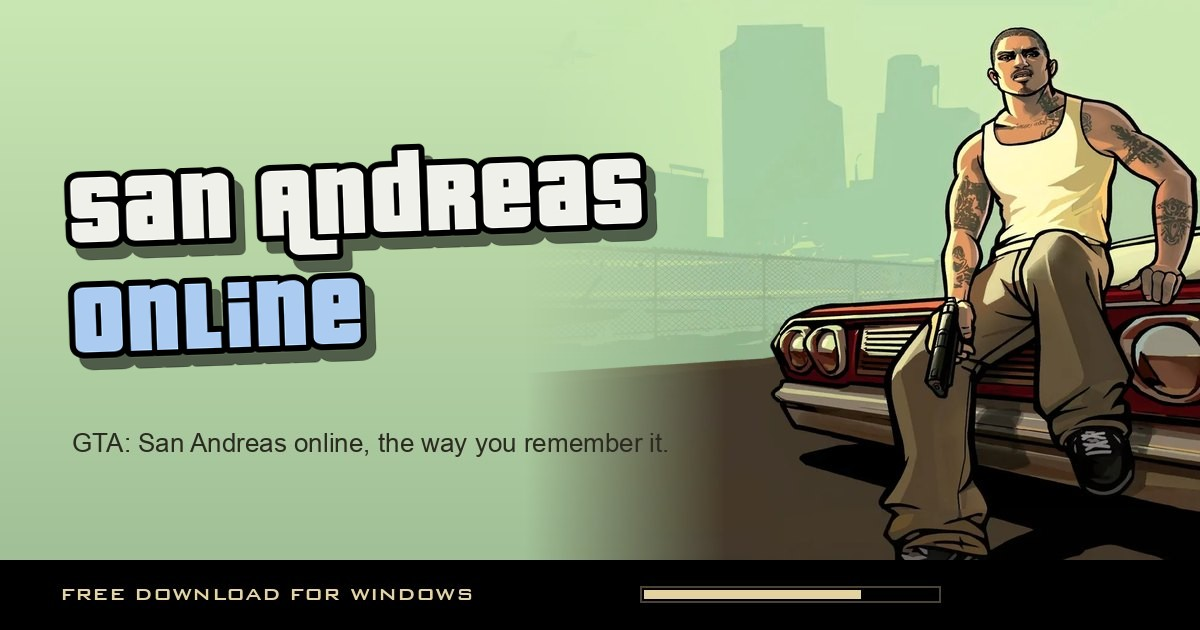
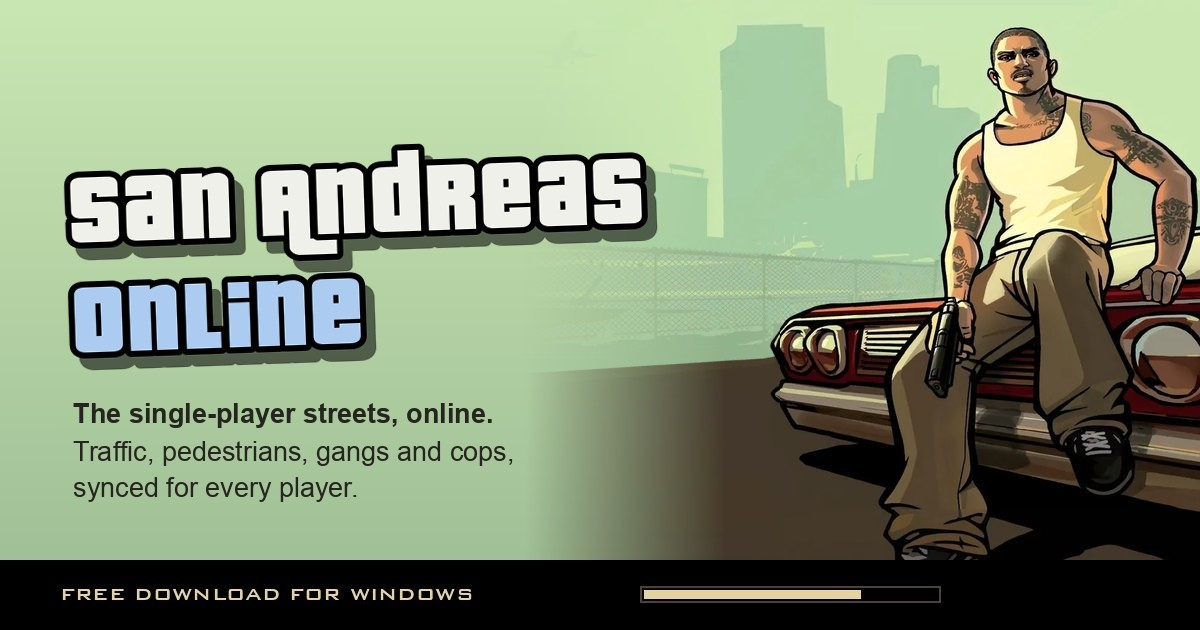
Sell the single-player traffic on sanandreasonline.com
Request: the site undersold the project. The Discord preview only said
"longer draw distance and PS2 colours", nothing about the thing no other
San Andreas multiplayer has: GTA's own traffic and pedestrians, synced
for every player.

SEO and link previews:
- Title: "San Andreas Online: GTA San Andreas Multiplayer with Traffic & NPCs".
- Description, og: and twitter: tags lead with the traffic, pedestrians,
  gangs and cops, then draw distance (5,000 units), lit skyline, PS2
  colours and 20 x 20 km maps. og:image:alt and locales added.
- JSON-LD: WebSite (site name + SA:O), VideoGame/SoftwareApplication
  (free, Windows, multiplayer, GPL, download URL) and FAQPage matching the
  visible FAQ.
- og.jpg tagline replaced ("The single-player streets, online. Traffic,
  pedestrians, gangs and cops, synced for every player."), served as
  og.jpg?v=2 so Discord refetches it.

Page:
- One-sentence pitch under the hero logo (light backing at tablet widths
  where the art runs behind it).
- New "The streets are full again" section first in the page and nav:
  GTA's drivers, gangs on story turf, regional cops, population by area,
  time, weekday and rain, carjack reactions, owner handoff, passenger
  seats. Every claim is taken from the native-ped-traffic and
  native-vehicle-traffic READMEs; the freeroam server runs both resources.
- Feature 1 now sells bigger worlds (20 x 20 km); the FAQ "why GitHub"
  entry becomes "Does it have traffic and pedestrians?".
[…]

Changed region(s): [[0.0617, 0.6333, 0.555, 0.8143]]

diff --git a/Tools/neon-website/index.html b/Tools/neon-website/index.html
@@ -3,8 +3,8 @@
 <head>
   <meta charset="utf-8">
   <meta name="viewport" content="width=device-width, initial-scale=1">
-  <title>San Andreas Online — GTA: San Andreas Multiplayer</title>
-  <meta name="description" content="Play GTA: San Andreas online for free. San Andreas Online is a multiplayer client built on Multi Theft Auto, with longer draw distance, city lights at night, PS2 colours and GTA's own traffic and pedestrians. Windows.">
+  <title>San Andreas Online: GTA San Andreas Multiplayer with Traffic &amp; NPCs</title>
+  <meta name="description" content="Free GTA: San Andreas multiplayer with the single-player traffic, pedestrians, gangs and cops back, synced for every player. Longer draw distance, PS2 colours and bigger maps.">
   <meta name="theme-color" content="#0b0a09">
   <link rel="canonical" href="https://sanandreasonline.com/">
   <link rel="icon" type="image/png" href="/favicon.png">
@@ -12,13 +12,120 @@
 
   <meta property="og:type" content="website">
   <meta property="og:site_name" content="San Andreas Online">
-  <meta property="og:title" content="San Andreas Online — GTA: San Andreas Multiplayer">
-  <meta property="og:description" content="GTA: San Andreas multiplayer with longer draw distance and PS2 colours. Free for Windows.">
+  <meta property="og:title" content="San Andreas Online: GTA San Andreas multiplayer with the single-player streets back">
+  <meta property="og:description" content="SA-MP and MTA leave the city empty. San Andreas Online brings back GTA's own traffic, pedestrians, gangs and cops, synced for every player. Plus draw distance up to 5,000 units, the whole skyline lit at night, PS2 colours and maps up to 20 × 20 km. Free for Windows.">
   <meta property="og:url" content="https://sanandreasonline.com/">
-  <meta property="og:image" content="https://sanandreasonline.com/og.jpg">
+  <meta property="og:image" content="https://sanandreasonline.com/og.jpg?v=2">
   <meta property="og:image:width" content="1200">
   <meta property="og:image:height" content="630">
+  <meta property="og:image:alt" content="San Andreas Online: GTA San Andreas multiplayer with the single-player traffic and pedestrians">
+  <meta property="og:locale" content="en_US">
+  <meta property="og:locale:alternate" content="fr_FR">
   <meta name="twitter:card" content="summary_large_image">
+  <meta name="twitter:title" content="San Andreas Online: GTA San Andreas multiplayer with the single-player streets back">
+  <meta name="twitter:description" content="SA-MP and MTA leave the city empty. San Andreas Online brings back GTA's own traffic, pedestrians, gangs and cops, synced for every player. Plus draw distance up to 5,000 units, the whole skyline lit at night, PS2 colours and maps up to 20 × 20 km. Free for Windows.">
+  <meta name="twitter:image" content="https://sanandreasonline.com/og.jpg?v=2">
+  <script type="application/ld+json">
+[
+ {
+  "@context": "https://schema.org",
+  "@type": "WebSite",
+  "name": "San Andreas Online",
+  "alternateName": "SA:O",
+  "url": "https://sanandreasonline.com/"
+ },
+ {
+  "@context": "https://schema.org",
+  "@type": [
+   "VideoGame",
+   "SoftwareApplication"
+  ],
+  "name": "San Andreas Online",
+  "alternateName": [
+   "SA:O",
+   "San Andreas Online multiplayer"
+  ],
+  "description": "Free GTA: San Andreas multiplayer with the single-player traffic, pedestrians, gangs and cops back, synced for every player. Longer draw distance, PS2 colours and bigger maps.",
+  "url": "https://sanandreasonline.com/",
+  "image": "https://sanandreasonline.com/og.jpg?v=2",
+  "applicationCategory": "GameApplication",
+  "operatingSystem": "Windows",
+  "gamePlatform": "PC",
+  "playMode": "MultiPlayer",
+  "genre": [
+   "Open world",
+   "Multiplayer",
+   "Action"
+  ],
+  "downloadUrl": "https://sanandreasonline.com/download",
+  "isAccessibleForFree": true,
+  "license": "https://www.gnu.org/licenses/gpl-3.0.html",
+  "offers": {
+   "@type": "Offer",
+   "price": "0",
+   "priceCurrency": "USD"
+  },
+  "sameAs": [
+   "https://github.com/Dryxio/san-andreas-online",
+   "https://discord.com/invite/mgFRd2AzF8"
+  ]
+ },
+ {
+  "@context": "https://schema.org",
+  "@type": "FAQPage",
+  "mainEntity": [
+   {
+    "@type": "Question",
+    "name": "Is it free?",
+    "acceptedAnswer": {
+     "@type": "Answer",
+     "text": "Yes. It's open source under GPL-3.0, the same licence as Multi Theft Auto."
+    }
+   },
+   {
+    "@type": "Question",
+    "name": "Do I need GTA: San Andreas?",
+    "acceptedAnswer": {
+     "@type": "Answer",
+     "text": "Yes, the original PC version. San Andreas Online doesn't come with the game, and the Definitive Edition won't work."
+    }
+   },
+   {
+    "@type": "Question",
+    "name": "Will it replace my MTA:SA?",
+    "acceptedAnswer": {
+     "@type": "Answer",
+     "text": "No. It has its own folder, so you can keep both."
+    }
+   },
+   {
+    "@type": "Question",
+    "name": "Is this the official MTA?",
+    "acceptedAnswer": {
+     "@type": "Answer",
+     "text": "No. It's a separate project built on Multi Theft Auto's open-source code. The MTA team doesn't run it and hasn't endorsed it."
+    }
+   },
+   {
+    "@type": "Question",
+    "name": "Does it have traffic and pedestrians?",
+    "acceptedAnswer": {
+     "@type": "Answer",
+     "text": "Yes. GTA's own cars, pedestrians, gangs and cops, running the single-player AI and synced so every player sees the same street. SA-MP and MTA switch them off."
+    }
+   },
+   {
+    "@type": "Question",
+    "name": "Can I host my own server?",
+    "acceptedAnswer": {
+     "@type": "Answer",
+     "text": "Yes. Each release has server packages for Windows x64, Linux x64 and Linux ARM64."
+    }
+   }
+  ]
+ }
+]
+  </script>
 
   <link rel="preload" href="/assets/fonts/pricedown.ttf" as="font" type="font/ttf" crossorigin>
   <link rel="preload" href="/assets/img/sa-14.webp" as="image">
@@ -37,6 +144,7 @@
     <span class="wordmark wordmark--sm bar__wm-short" aria-hidden="true"><span>SA:</span><strong>O</strong></span>
   </a>
   <nav class="bar__nav" aria-label="Main">
+    <a href="#streets" data-i18n="nav.streets">Traffic</a>
     <a href="#compare" data-i18n="nav.graphics">Graphics</a>
     <a href="#features" data-i18n="nav.features">Features</a>
     <a href="#install" data-i18n="nav.install">Install</a>
@@ -79,6 +187,7 @@
 
     <div class="hero__inner">
       <h1 class="wordmark wordmark--hero"><span>San Andreas</span><strong>Online</strong></h1>
+      <p class="hero__lede" data-i18n="hero.lede">GTA: San Andreas multiplayer with the single-player streets back. Traffic, pedestrians, gangs and cops run on GTA's own AI, and every player sees the same city.</p>
 
       <div class="hero__cta">
         <a class="btn btn--primary js-download" href="/download">
@@ -94,6 +203,43 @@
     <!-- Bottom letterbox: the SA loading bar doubles as the slideshow timer. -->
     <div class="hero__letterbox">
       <div class="loadbar" aria-hidden="true"><span id="loadbar-fill"></span></div>
+    </div>
+  </section>
+
+  <!-- THE STREETS: the one thing no other San Andreas multiplayer has. -->
+  <section class="section section--ink" id="streets">
+    <div class="wrap">
+      <header class="head">
+        <p class="kicker" data-i18n="st.kicker">Only on San Andreas Online</p>
+        <h2 class="title" data-i18n="st.title">The streets are full again</h2>
+        <p class="sub" data-i18n="st.sub">SA-MP and MTA switch off GTA's traffic and pedestrians, so their cities are empty. San Andreas Online brings them back with the single-player AI, synced for everyone on the server. The official freeroam server runs it right now.</p>
+      </header>
+      <ul class="streets">
+        <li>
+          <h3 data-i18n="st.1t">GTA's own drivers</h3>
+          <p data-i18n="st.1d">Cars, vans, trucks, motorbikes, BMXs and quads drive the roads with the same AI as single player.</p>
+        </li>
+        <li>
+          <h3 data-i18n="st.2t">Gangs on their turf</h3>
+          <p data-i18n="st.2d">The Grove, the Ballas and the rest hold the same territory as in the story, and each city has its own cops.</p>
+        </li>
+        <li>
+          <h3 data-i18n="st.3t">A city that changes</h3>
+          <p data-i18n="st.3d">Who's out depends on the area, the time of day, weekdays and rain, following the game's own population rules.</p>
+        </li>
+        <li>
+          <h3 data-i18n="st.4t">Jack a car, get a reaction</h3>
+          <p data-i18n="st.4d">Pull a driver out and they might run, fight back or try to get their car back.</p>
+        </li>
+        <li>
+          <h3 data-i18n="st.5t">Same street for everyone</h3>
+          <p data-i18n="st.5d">Every car and pedestrian is run by one player's game and shown to everyone else in sync. If that player leaves, someone else takes over and nothing disappears.</p>
+        </li>
+        <li>
+          <h3 data-i18n="st.6t">Ride along</h3>
+          <p data-i18n="st.6d">Get into a free passenger seat and the driver keeps going.</p>
+        </li>
+      </ul>
     </div>
   </section>
 
@@ -141,8 +287,8 @@
         <h2 class="title" data-i18n="feat.title">What's different</h2>
         <ol class="perks">
           <li>
-            <h3 data-i18n="feat.1t">Street life is back</h3>
-            <p data-i18n="feat.1d">MTA switches off GTA's pedestrians and traffic. Servers can turn them back on, and everyone on the server sees the same cars and the same people.</p>
+            <h3 data-i18n="feat.1t">Bigger worlds</h3>
+            <p data-i18n="feat.1d">Servers can build maps up to 20 × 20 km, more than ten times the area of San Andreas, streamed by GTA itself like the original map.</p>
           </li>
           <li>
             <h3 data-i18n="feat.2t">Graphics options in the menu</h3>
@@ -289,8 +435,8 @@
           <p data-i18n="faq.4a">No. It's a separate project built on Multi Theft Auto's open-source code. The MTA team doesn't run it and hasn't endorsed it.</p>
         </details>
         <details>
-          <summary data-i18n="faq.5q">Why is the download on GitHub?</summary>
-          <p data-i18n="faq.5a">That's where the code is and where every release gets built. The download button takes you straight to the installer.</p>
+          <summary data-i18n="faq.5q">Does it have traffic and pedestrians?</summary>
+          <p data-i18n="faq.5a">Yes. GTA's own cars, pedestrians, gangs and cops, running the single-player AI and synced so every player sees the same street. SA-MP and MTA switch them off.</p>
         </details>
         <details>
           <summary data-i18n="faq.6q">Can I host my own server?</summary>

diff --git a/Tools/neon-website/main.js b/Tools/neon-website/main.js
@@ -27,8 +27,8 @@
     'cmp.c3': 'Des couleurs plus chaudes, plus proches du jeu sur PS2.',
     'feat.kicker': 'Respect +',
     'feat.title': 'Ce qui change',
-    'feat.1t': 'Les rues revivent',
-    'feat.1d': 'MTA désactive les piétons et le trafic de GTA. Les serveurs peuvent les remettre, et tout le monde voit les mêmes voitures et les mêmes passants.',
+    'feat.1t': 'Des mondes plus grands',
+    'feat.1d': 'Les serveurs peuvent créer des maps jusqu’à 20 × 20 km, plus de dix fois la surface de San Andreas, chargées par GTA comme la map d’origine.',
     'feat.2t': 'Les graphismes dans le menu',
     'feat.2d': 'Distance d’affichage, lumières au loin et couleurs PS2 sont de simples options. Pas d’ASI loader, pas de dossier de mods.',
     'feat.3t': 'Un menu façon San Andreas',
@@ -79,8 +79,8 @@
     'faq.3a': 'Non. Il a son propre dossier, tu peux garder les deux.',
     'faq.4q': 'C’est le MTA officiel ?',
     'faq.4a': 'Non. C’est un projet à part, basé sur le code open source de Multi Theft Auto. L’équipe MTA ne le gère pas et ne l’a pas approuvé.',
-    'faq.5q': 'Pourquoi le téléchargement est sur GitHub ?',
-    'faq.5a': 'C’est là que se trouve le code et que chaque version est compilée. Le bouton de téléchargement t’envoie directement sur l’installateur.',
+    'faq.5q': 'Il y a du trafic et des piétons ?',
+    'faq.5a': 'Oui. Les voitures, piétons, gangs et flics de GTA, avec l’IA du mode solo et synchronisés pour que tout le monde voie la même rue. SA-MP et MTA les désactivent.',
     'faq.6q': 'Je peux héberger mon propre serveur ?',
     'faq.6a': 'Oui. Chaque version a des serveurs pour Windows x64, Linux x64 et Linux ARM64.',
     'faq.7q': 'Où trouver de l’aide ?',
@@ -95,7 +95,24 @@
     'passed.small': 'Téléchargement lancé · Respect +',
     'meta.free': 'Gratuit',
     'meta.mb': 'Mo',
-  };
+      'nav.streets': 'Trafic',
+    'hero.lede': 'Le multijoueur de GTA: San Andreas avec les rues du mode solo. Trafic, piétons, gangs et flics tournent sur l’IA de GTA, et tous les joueurs voient la même ville.',
+    'st.kicker': 'Seulement sur San Andreas Online',
+    'st.title': 'Les rues sont de nouveau pleines',
+    'st.sub': 'SA-MP et MTA coupent le trafic et les piétons de GTA, donc leurs villes sont vides. San Andreas Online les remet avec l’IA du mode solo, synchronisés pour tout le serveur. Le serveur freeroam officiel le fait tourner en ce moment.',
+    'st.1t': 'Les conducteurs de GTA',
+    'st.1d': 'Voitures, vans, camions, motos, BMX et quads roulent avec la même IA qu’en solo.',
+    'st.2t': 'Les gangs sur leur territoire',
+    'st.2d': 'Les Grove, les Ballas et les autres tiennent les mêmes quartiers que dans l’histoire, et chaque ville a ses propres flics.',
+    'st.3t': 'Une ville qui change',
+    'st.3d': 'Qui traîne dehors dépend du quartier, de l’heure, du jour de la semaine et de la pluie, selon les règles du jeu.',
+    'st.4t': 'Vole une caisse, ça réagit',
+    'st.4d': 'Sors un conducteur de sa voiture : il peut fuir, se battre ou essayer de la récupérer.',
+    'st.5t': 'La même rue pour tout le monde',
+    'st.5d': 'Chaque voiture et chaque piéton est géré par le jeu d’un joueur et affiché en synchro chez les autres. Si ce joueur part, un autre prend le relais et rien ne disparaît.',
+    'st.6t': 'Monte à bord',
+    'st.6d': 'Prends une place passager libre et le conducteur continue sa route.',
+};
   const EN_EXTRA = {
     'cmp.c1': 'In the original, the far side of town is a mess of low-detail boxes. Here the real buildings load all the way to the hills.',
     'cmp.c2': 'At night the whole skyline stays lit, not only the few blocks around you.',

diff --git a/Tools/neon-website/styles.css b/Tools/neon-website/styles.css
@@ -215,6 +215,12 @@ b { font-weight: 600; }
 }
 .hero__inner > * { max-width: 560px; }
 .hero__inner > .wordmark { max-width: none; }
+/* One plain sentence under the logo: the hero art says "San Andreas", this says what's new. */
+.hero__lede { margin-top: clamp(18px, 3vh, 28px); font: 600 clamp(17px, 1.5vw, 20px)/1.45 'Inter', system-ui, sans-serif; color: var(--paper-ink); }
+/* Between phone and wide desktop the character art runs behind the text, so the line gets a light backing to stay readable. */
+@media (min-width: 761px) and (max-width: 1240px) {
+  .hero__lede { max-width: 480px; padding: 10px 14px; background: rgba(255, 255, 255, .62); -webkit-backdrop-filter: blur(3px); backdrop-filter: blur(3px); }
+}
 .hero__cta { display: flex; flex-direction: column; align-items: flex-start; gap: 14px; margin-top: clamp(34px, 5vh, 52px); }
 .outro .hero__cta { margin-top: 30px; }
 
@@ -269,6 +275,13 @@ b { font-weight: 600; }
   text-shadow: var(--outline), .06em .08em 0 rgba(0, 0, 0, .45);
 }
 .sub { margin-top: 20px; max-width: 620px; font-size: 18px; color: var(--text-dim); }
+
+/* ---------- Streets (traffic and pedestrians) ---------- */
+.streets { margin: 0; padding: 0; list-style: none; display: grid; grid-template-columns: repeat(3, 1fr); gap: 34px 40px; }
+.streets li { position: relative; padding-top: 22px; border-top: 2px solid var(--line); }
+.streets li::before { content: ''; position: absolute; top: -5px; left: 0; width: 8px; height: 8px; background: var(--neon); transform: rotate(45deg); }
+.streets h3 { font: 400 17px/1.3 'SA Bank Gothic', sans-serif; letter-spacing: .06em; text-transform: uppercase; color: var(--sa-white); }
+.streets p { margin-top: 8px; color: var(--text-dim); }
 
 /* ---------- Compare slider ---------- */
 .tabs { display: flex; flex-wrap: wrap; gap: 4px 8px; margin-bottom: 20px; }
@@ -541,6 +554,7 @@ b { font-weight: 600; }
 @media (max-width: 1080px) {
   .bar__nav a { font-size: 18px; padding: 8px 8px; }
   .grid { grid-template-columns: repeat(2, 1fr); }
+  .streets { grid-template-columns: repeat(2, 1fr); }
 }
 
 @media (max-width: 860px) {
@@ -570,6 +584,7 @@ b { font-weight: 600; }
   .hero__cta .btn { justify-content: center; }
   .hero__cta .btn--ghost { min-height: 52px; }
   .grid { grid-template-columns: 1fr; }
+  .streets { grid-template-columns: 1fr; }
   .safe { flex-direction: column; padding: 24px 22px; }
   .outro { flex-direction: column; align-items: stretch; min-height: 0; }
   .outro__inner { padding: 64px var(--gutter) 24px; }
